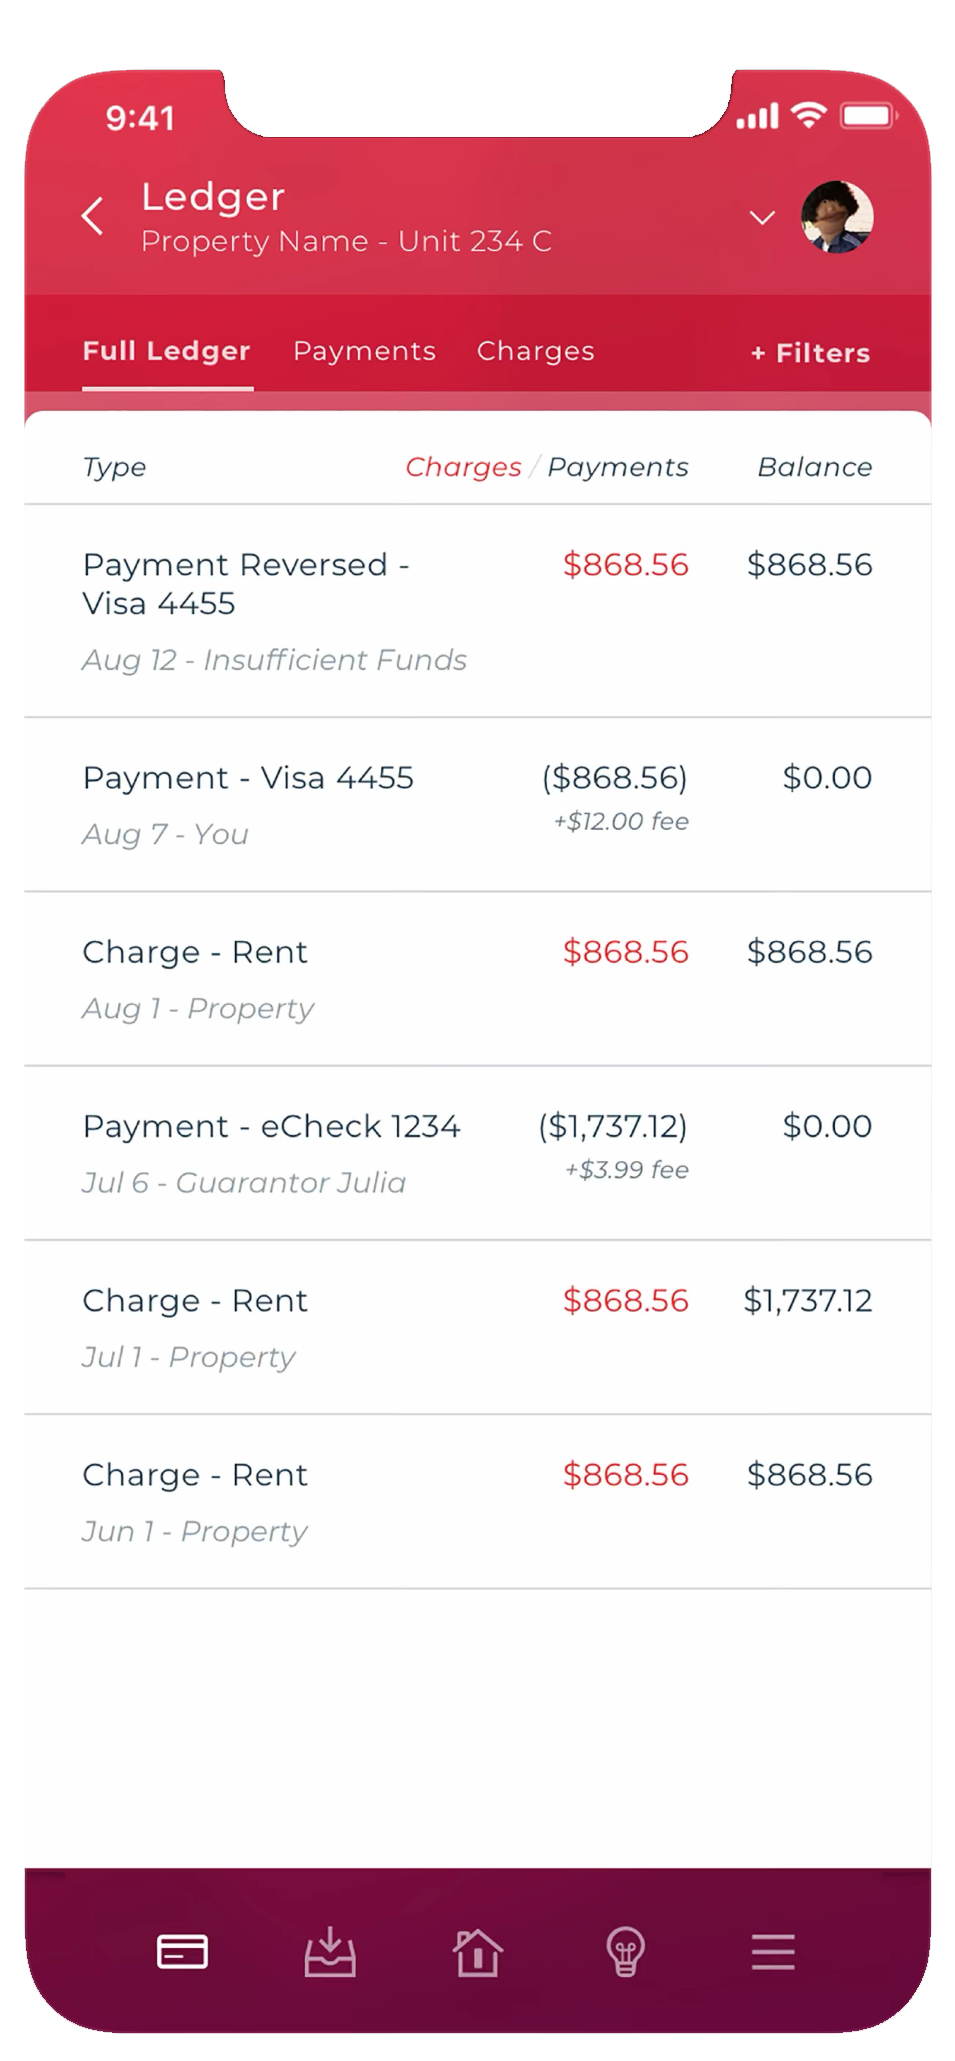
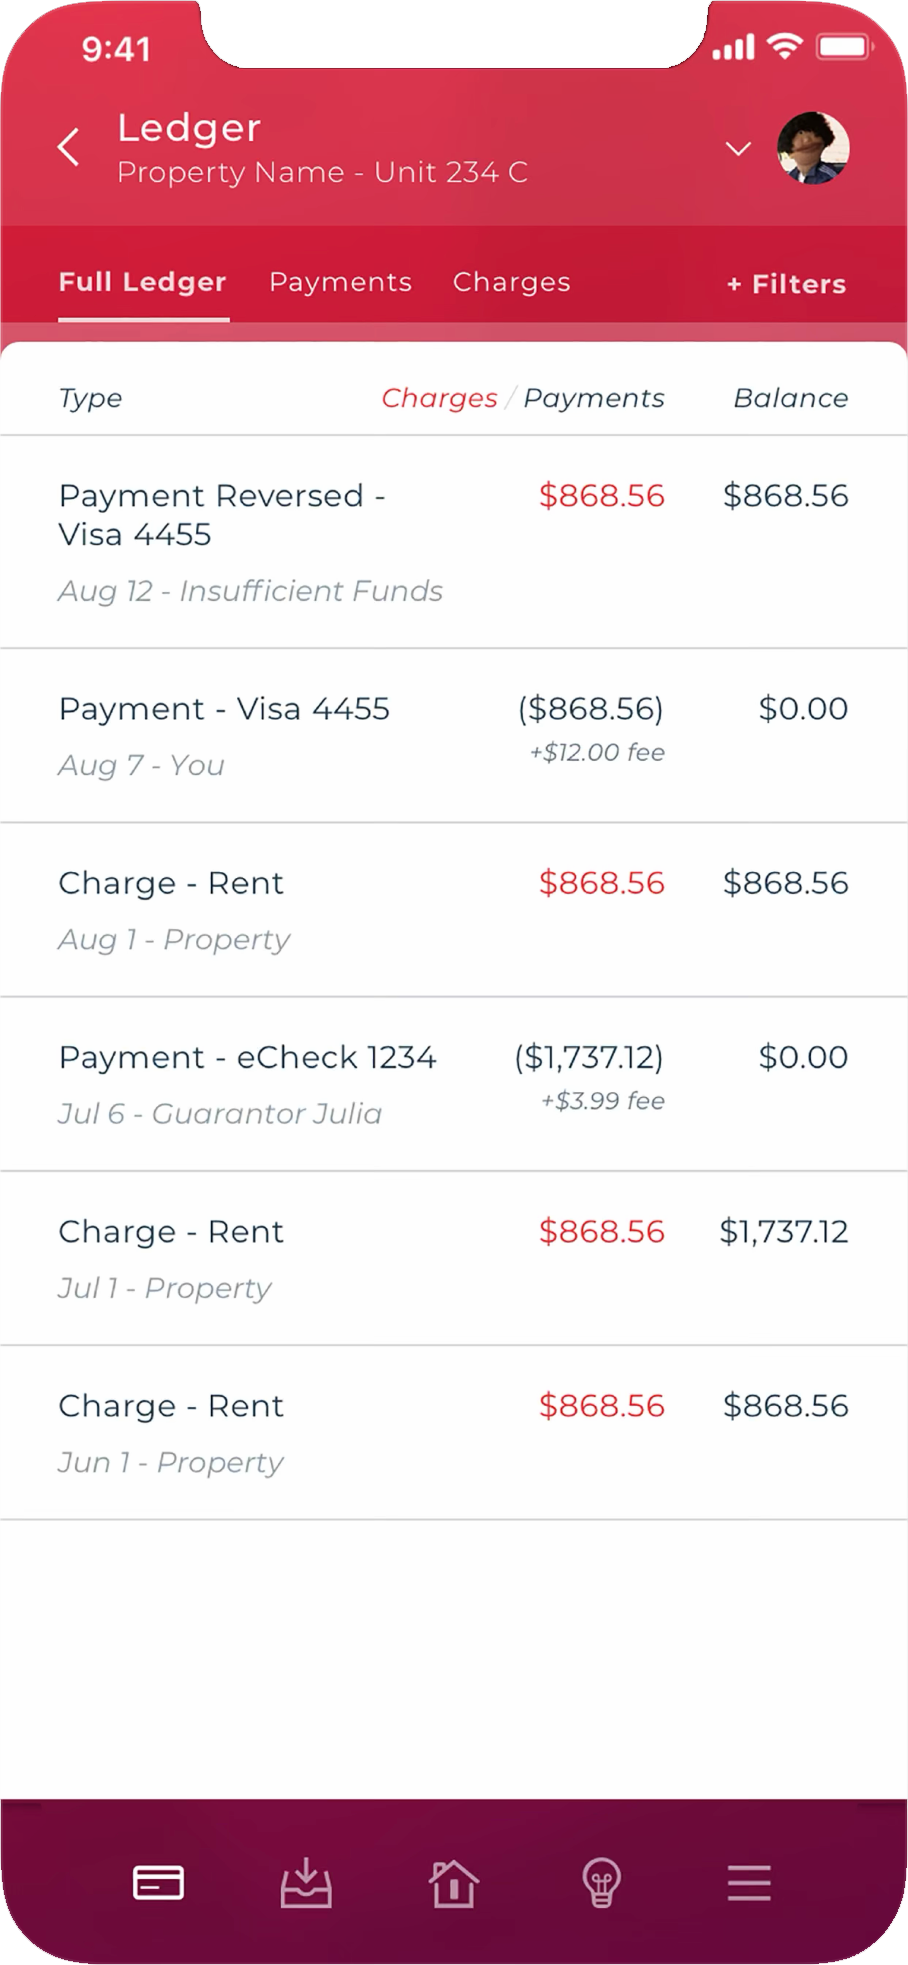
Add updated images to project

diff --git a/index.html b/index.html
@@ -89,23 +89,23 @@
     <h3 class="dark-text">RP Features</h3>
     <div class="slider">
       <div class="app-screen">
-        <img src="images/image-1.png" width="150" height="315" alt="ResidentPortal Property Name"/>
+        <img class="shadow"  src="images/image-1.png" width="150" height="315" alt="ResidentPortal Property Name"/>
         <p>Property Name</p>
       </div>
       <div class="app-screen">
-        <img src="images/image-2.png" width="150" height="315" alt="ResidentPortal Residency"/>
+        <img class="shadow"  src="images/image-2.png" width="150" height="315" alt="ResidentPortal Residency"/>
         <p>Residency</p>
       </div>
       <div class="app-screen">
-        <img src="images/image-3.png" width="150" height="315" alt="ResidentPortal Ledger"/>
+        <img class="shadow" src="images/image-3.png" width="150" height="315" alt="ResidentPortal Ledger"/>
         <p>Ledger</p>
       </div>
       <div class="app-screen">
-        <img src="images/image-4.png" width="150" height="315" alt="ResidentPortal Messages"/>
+        <img class="shadow" src="images/image-4.png" width="150" height="315" alt="ResidentPortal Messages"/>
         <p>Messages</p>
       </div>
       <div class="app-screen">
-        <img src="images/image-5.png" width="150" height="315" alt="ResidentPortal Messages"/>
+        <img class="shadow" src="images/image-5.png" width="150" height="315" alt="ResidentPortal Messages"/>
         <p>Messages</p>
       </div>
     </div>

diff --git a/styles.css b/styles.css
@@ -34,6 +34,7 @@
 .margin-top-10 { margin-top: 10px; }
 
 .font-size-22 { font-size: 22px; }
+.shadow { box-shadow: 0 3px 10px rgb(0 0 0 / 0.2); }
 
 h2 {
   color: #f5f5f5;
@@ -167,11 +168,13 @@ input[type=submit]:hover {
   display: flex;
   margin-bottom: 90px;
 }
+
 .app-screen:nth-child(1) {
-  padding-left: 0;
+  padding-left: 75px;
 }
 
 .app-screen { 
+  margin-left: -75px;
   padding-right: 50px;
   flex-direction: column;
   text-align: center;
